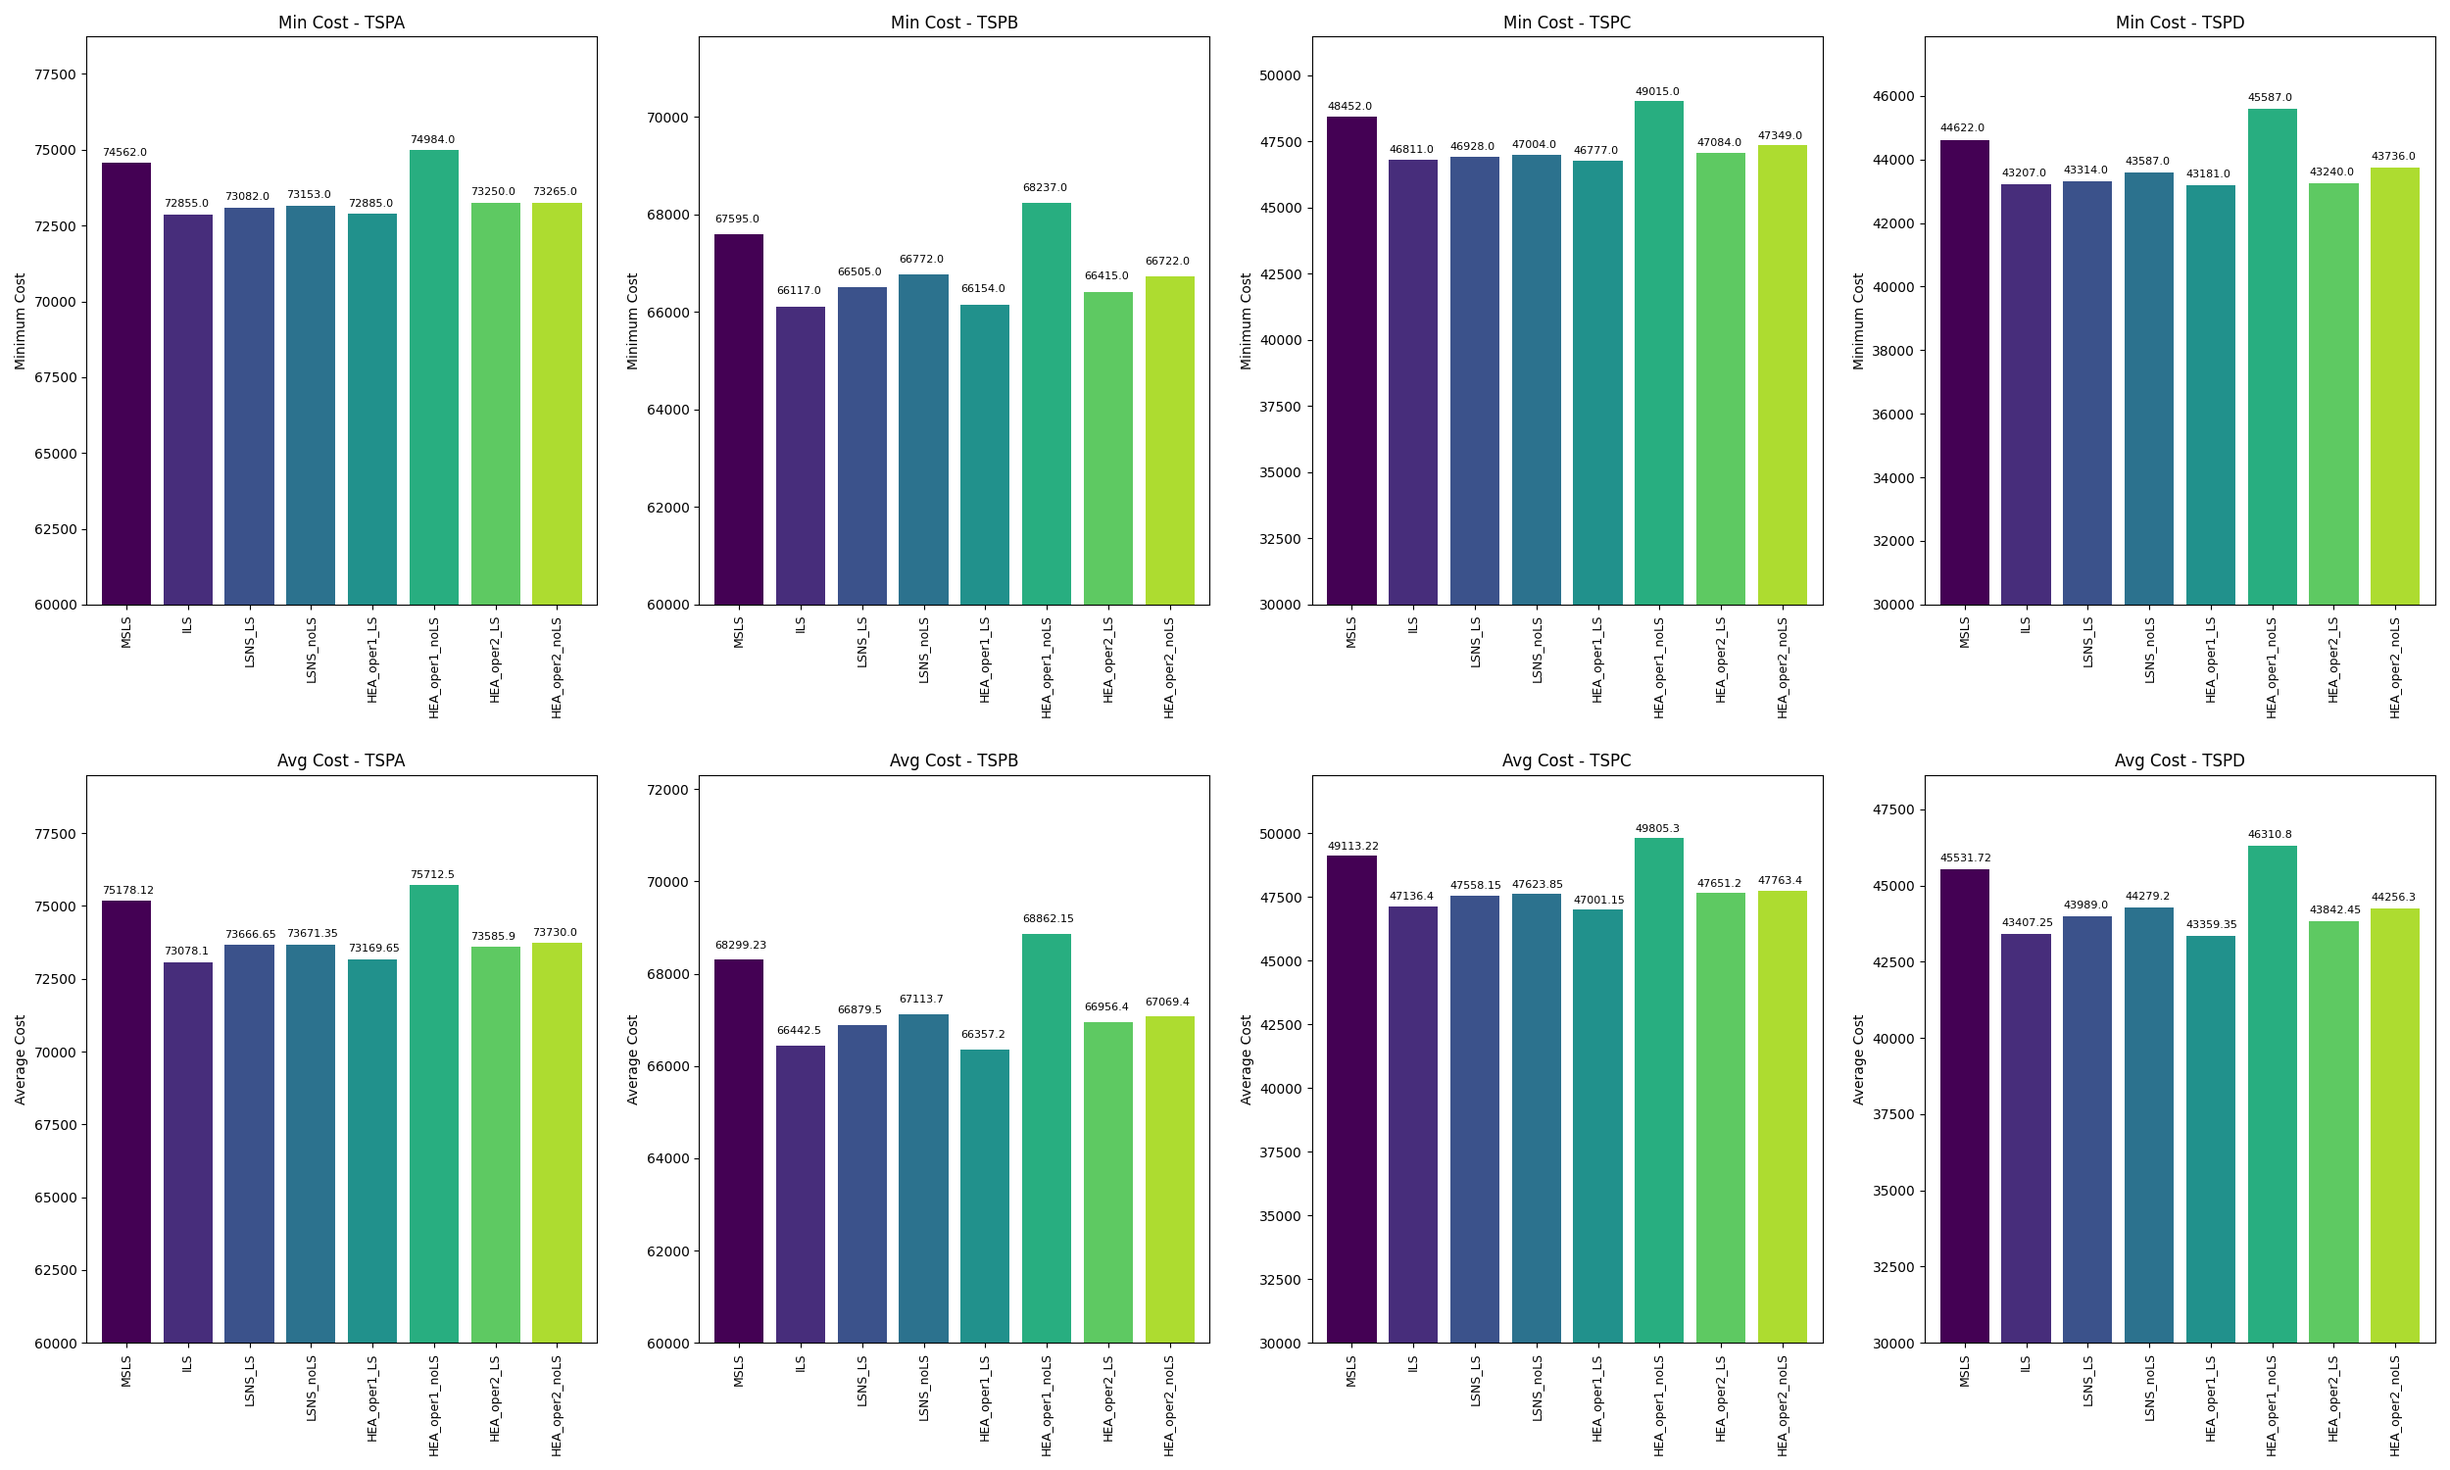
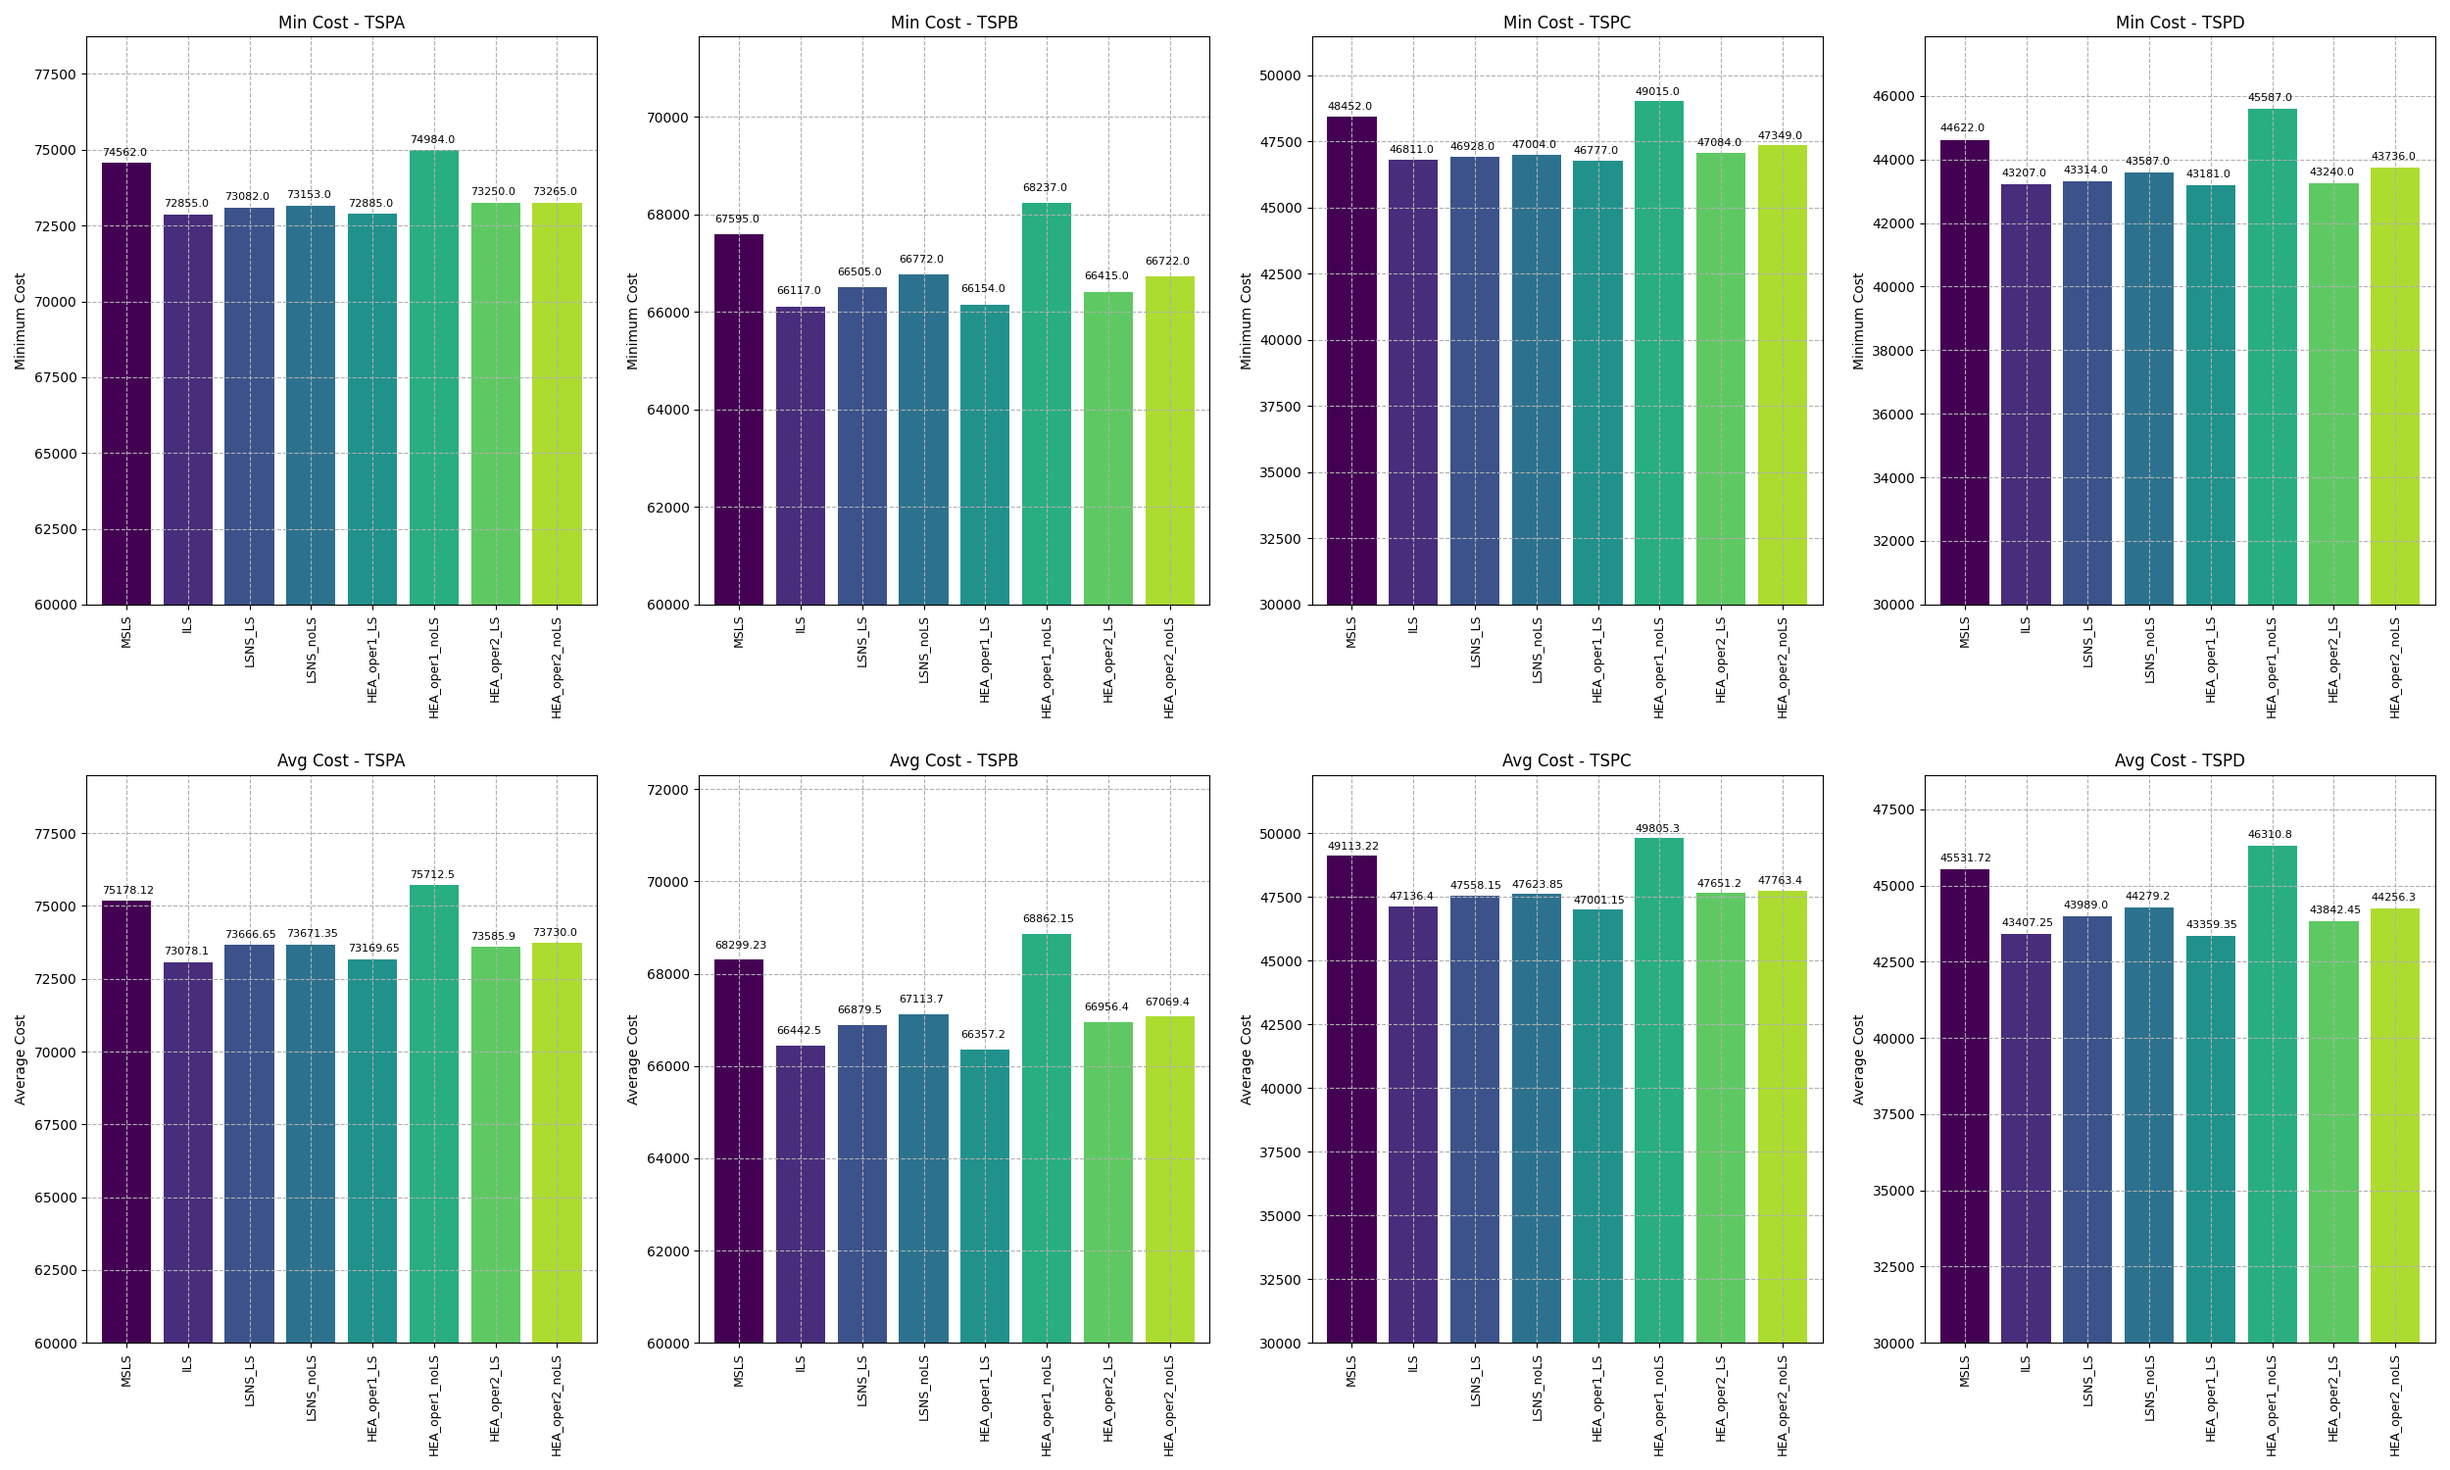
minor change

diff --git a/hybrid-evol-algo/plot.py b/hybrid-evol-algo/plot.py
@@ -39,6 +39,7 @@ for ax, column, ymin in zip(axes[0], instances, scaling):
     ax.set_xticklabels(ax.get_xticklabels(), fontsize=9)
     ax.set_ylabel("Minimum Cost")
     ax.set_ylim(ymin)
+    ax.grid(True, linestyle='--')
     add_cost_values(ax)
 
 for ax, column, ymin in zip(axes[1], instances, scaling):
@@ -47,6 +48,7 @@ for ax, column, ymin in zip(axes[1], instances, scaling):
     ax.set_xticklabels(ax.get_xticklabels(), fontsize=9)
     ax.set_ylabel("Average Cost")
     ax.set_ylim(ymin)
+    ax.grid(True, linestyle='--')
     add_cost_values(ax)
 
 fig.tight_layout()
